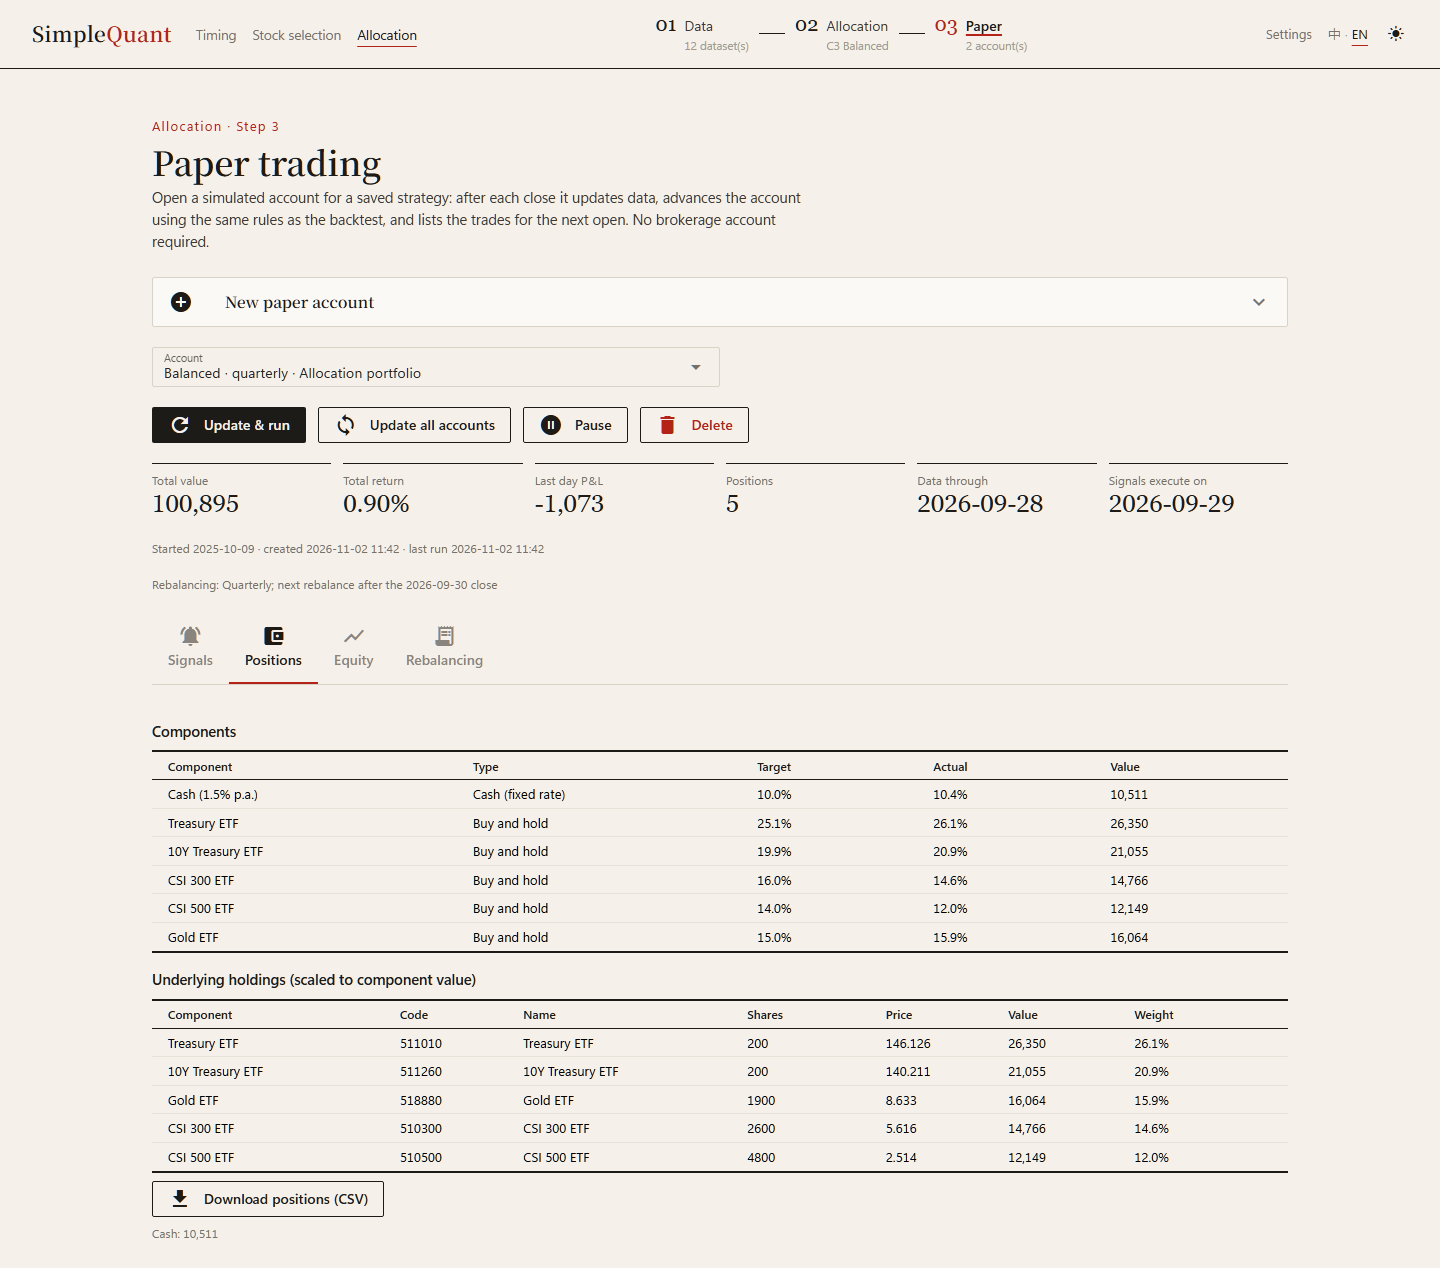
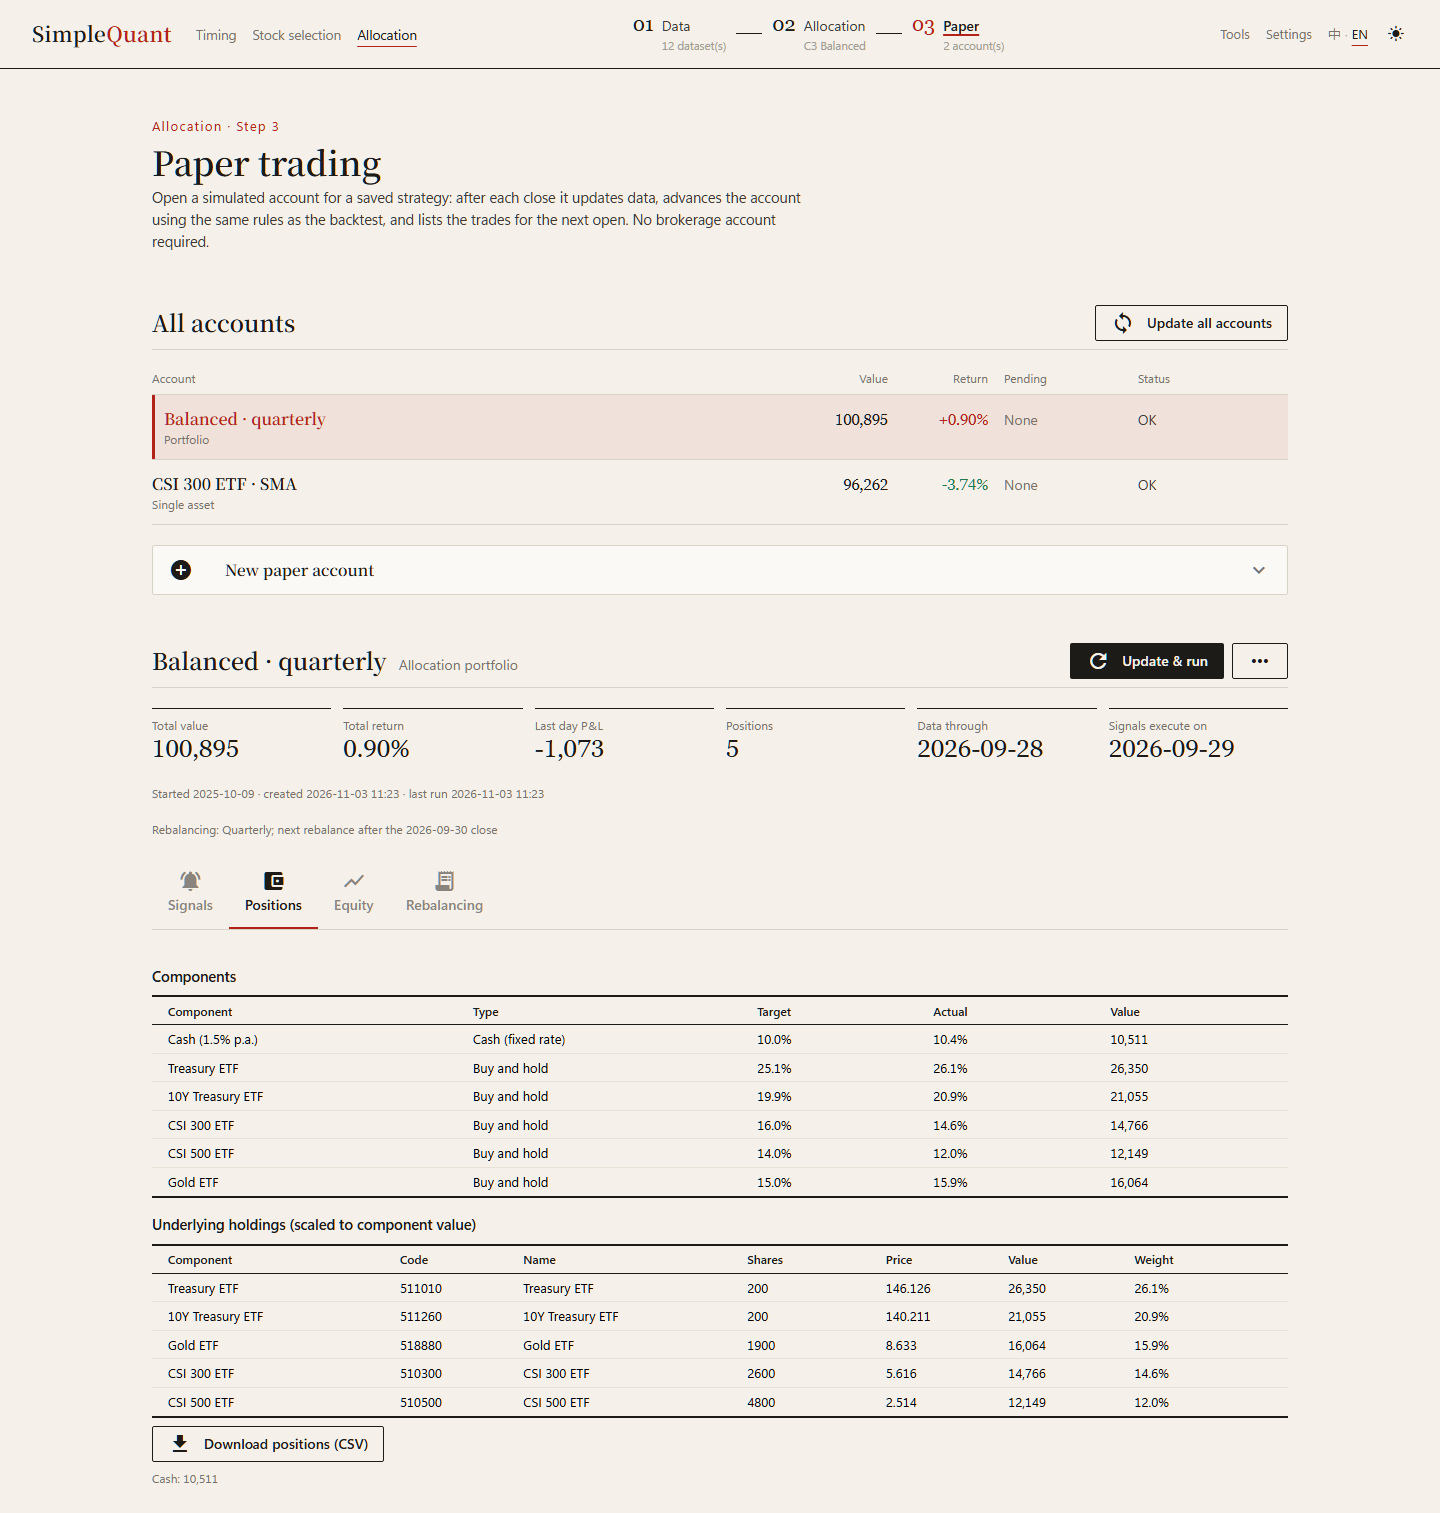
发布 2.5.0：模拟账户一览、模拟盘页先列表后详情；README 重拍首页与模拟盘截图，加 Discussions 入口，更正选股模拟账户已支持追加资金

diff --git a/simplequant/__init__.py b/simplequant/__init__.py
@@ -1,3 +1,3 @@
 """SimpleQuant???? A ????????Backtrader ???"""
 
-__version__ = "2.4.1"
+__version__ = "2.5.0"

diff --git a/README.en.md b/README.en.md
@@ -188,12 +188,12 @@ PyInstaller cannot cross-compile, so each system's version is built on that syst
 <details>
 <summary><b>Dollar-cost averaging</b></summary>
 
-- **Contributions**: added before the open on the first trading day of each month / week; the initial capital counts as the first period. Supported in backtests, parameter optimization, walk-forward (with "Keep positions"), single-asset paper accounts and exported Python scripts; paper trading reminds you to transfer the money the day before.
+- **Contributions**: added before the open on the first trading day of each month / week; the initial capital counts as the first period. Supported in backtests, parameter optimization, walk-forward (with "Keep positions"), single-asset and selection paper accounts and exported Python scripts; paper trading reminds you to transfer the money the day before.
 - **Dollar-cost averaging**: buys whole lots at the close on the day each contribution arrives, filled at the next open; split equally across assets, with amounts too small for a lot rolled over.
 - **Valuation-based DCA**: scales each contribution by the P/E percentile over the past N years (default 5): 2x below 30%, 0.5x above 70% (0 pauses when expensive), 1x otherwise. Money held back is kept as a reserve and spent first when cheap; the reserve earns the set annual rate (default 2%, like a money market fund). Needs data with P/E: stock daily data, or ETFs / indexes downloaded with index valuation (updated monthly).
 - **Metrics**: total return = final value ÷ total invested − 1; XIRR is the money-weighted annual return, accounting for when each amount was invested; time-weighted return, CAGR, Sharpe and max drawdown use the unit value with contributions removed, so new money does not hide losses.
 - **Selection backtests**: new money waits as cash until the next rebalance open — dropped stocks are sold, new picks bought, and what is left tops up the stocks still held toward their target weight (never trimmed); it stays in cash during skipped months and market-exit periods. The benchmark buys and holds the universe index with the same amounts on the same dates.
-- Not yet supported: selection walk-forward (computed as a lump sum), contributions in selection / portfolio paper accounts, and export to JoinQuant / MyQuant / QMT.
+- Not yet supported: selection walk-forward (computed as a lump sum), contributions in portfolio paper accounts, and export to JoinQuant / MyQuant / QMT.
 </details>
 
 <details>
@@ -271,6 +271,10 @@ tests/                     pytest
 - **Platform differences**: data folder, program folder, opening folders etc. live in `simplequant/system.py`; scheduled runs in `simplequant/paper/schedule.py`; the update scripts are `simplequant/update/apply_update.ps1` (Windows) and `apply_update.sh` (macOS / Linux).
 - **Tests**: `.venv\Scripts\python -m pytest -q tests` (macOS / Linux: `.venv/bin/python -m pytest -q tests`)
 </details>
+
+## Support
+
+SimpleQuant is free and open source, and every feature is available to everyone. Questions and suggestions are welcome in [Discussions](https://github.com/AllenPan-Git/SimpleQuant/discussions); please report bugs in Issues. A Star on GitHub is also appreciated.
 
 ## License
 

diff --git a/CHANGELOG.md b/CHANGELOG.md
@@ -5,7 +5,7 @@
 
 Changes in each release. `tools/release.py` copies the matching section into the GitHub release notes.
 
-## 未发布
+## 2.5.0（2026-11-03）
 
 ### 更新内容
 - 改进：首页的模拟账户区域在有两个及以上账户时改为「今天的模拟盘」摘要，显示全部账户待执行交易的合计笔数与执行日（已暂停的账户不计）；首页新增「模拟账户」一览表，列出各账户的类型、总资产、累计收益、待执行交易与状态（正常、运行失败、落后 n 个交易日、尚未运行、当天数据未发布、已暂停），需要处理的账户排在最前，点击一行打开模拟盘页并选中该账户。只有一个账户时首页显示不变
